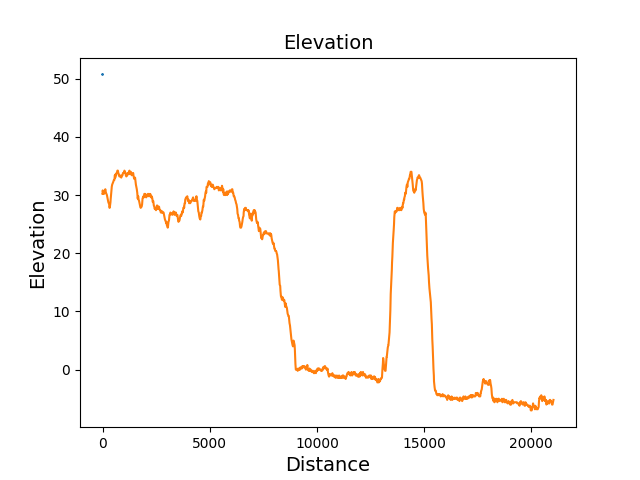
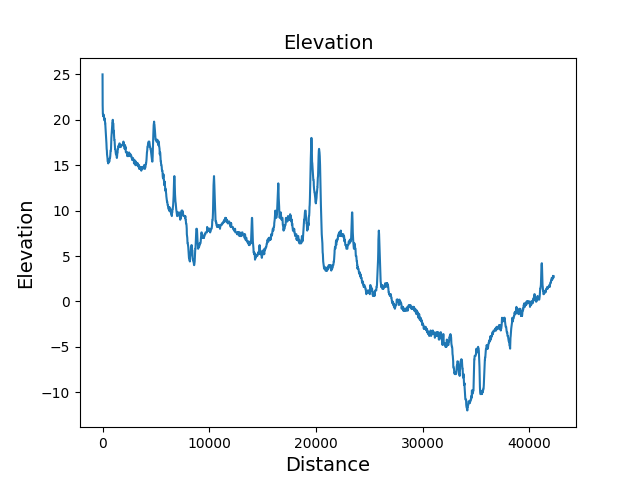
manchester

diff --git a/main.py b/main.py
@@ -7,7 +7,8 @@ import pandas as pd
 import haversine
 from math import sqrt, floor
 
-gpx_file = open('gpxfiles/Bournemouth_Half.gpx', 'r')
+#gpx_file = open('gpxfiles/Bournemouth_Half.gpx', 'r')
+gpx_file = open('gpxfiles/Manchester_Marathon.gpx', 'r')
 
 gpx = gpxpy.parse(gpx_file)
 
@@ -35,6 +36,8 @@ distDifHav2D = [0]
 #distanceHav2D = [0]
 pace = [0]
 
+
+#applying haversine function for each gpx point
 for index in range(1, len(points)):
     start = points[index-1]
     stop = points[index]
@@ -51,7 +54,7 @@ for index in range(1, len(points)):
     distHav.append(distHav[-1] + distanceHav3D)
     pace.append(16.66667/ (distanceHav3D / timeDelta))
 
-
+#adding data to the data frame
 df['distHave2D']= distHavNoElev
 df['distHav3D'] = distHav
 df['elevDif'] = elevDif
@@ -63,6 +66,7 @@ print('Haversine 3D : ', distHav[-1], 'm')
 print('Total time : ', floor(sum(timeDif)/60), 'min', int(sum(timeDif)%60), 'sec')
 #print('Pace : ', 16.666667 / pace, 'min/km')
 
+#map plot
 gain = sum([x for x in df['elevDif'] if x>0])
 print('Gain = {0}'.format(gain))
 print(df)
@@ -75,6 +79,7 @@ plt.grid(False)
 plt.savefig('Plot.png')
 plt.show()
 
+#elevation graph
 plt.plot(df['distHav3D'], df['elev'])
 plt.title('Elevation', fontsize=14)
 plt.xlabel('Distance', fontsize=14)
@@ -84,6 +89,7 @@ plt.grid(False)
 plt.savefig('Elevation.png')
 plt.show()
 
+#average pace
 averagePace = sum(df['pace']/ len (df['pace']))
 averagePaceMins = floor(averagePace)
 averagePaceSecs = int(60 * (averagePace - averagePaceMins))
